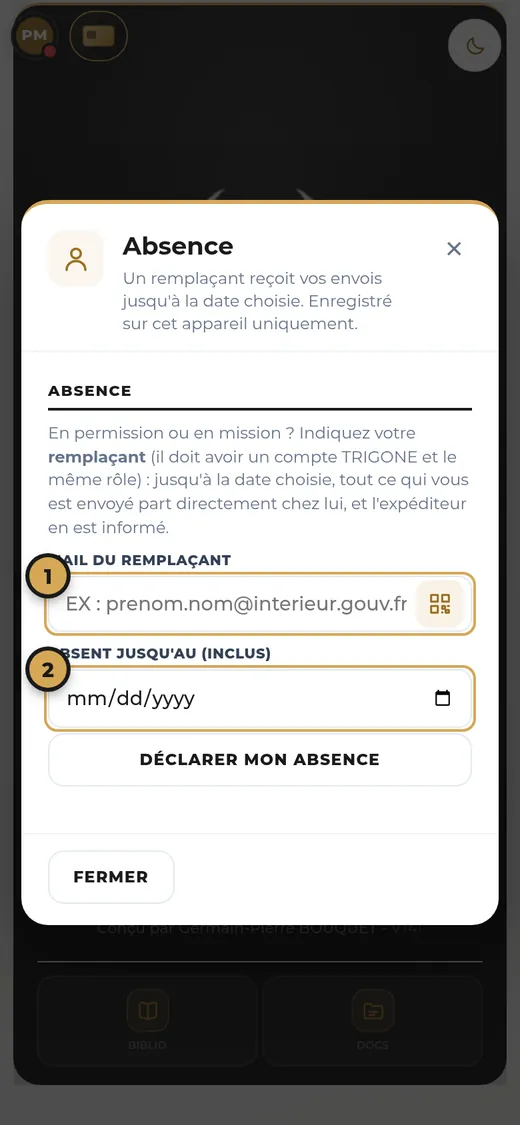
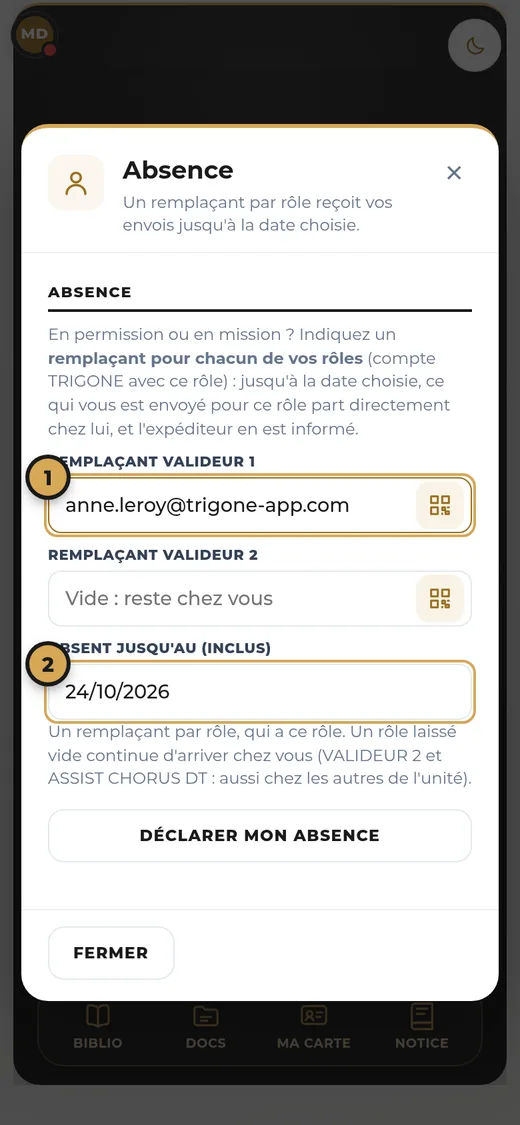
V183 : absence avec un remplaçant par rôle (VALIDEUR 1, VALIDEUR 2, ASSIST CHORUS DT) (#245)
Claude-Session: https://claude.ai/code/session_01NStkfCttCkWn8HaycQvLWX

diff --git a/jumelage.js b/jumelage.js
@@ -1190,7 +1190,7 @@
     // Dès l'ouverture (démarrage ou retour dans l'appli), TRIGONE vérifie s'il existe une publication plus récente
     // et se met à jour tout seul. Jamais au mauvais moment : uniquement sur l'accueil, sans fenêtre ouverte
     // (chaque appli le dit via JUMELAGE_PEUT_RECHARGER) ; sinon au prochain retour sur l'accueil.
-    var BUILD = 183, MAJ_DISPO = false, CLE_RECHARGE = 'trigone_recharge_build';
+    var BUILD = 184, MAJ_DISPO = false, CLE_RECHARGE = 'trigone_recharge_build';
     function peutRecharger() {
         if (document.visibilityState === 'hidden') return false;
         if (document.body && document.body.classList.contains('demo-active')) return false;
@@ -1848,7 +1848,7 @@
         reglages.setAttribute('role', 'dialog');
         reglages.innerHTML = premiere ? htmlProfilEtapes() : '<div class="JUM-R-CARTE">' +
             '<div class="JUM-R-TETE"><span class="JUM-R-ICONE">' + (window.JUMELAGE_ICONE ? window.JUMELAGE_ICONE('personne') : ROUE_SVG) + '</span><div><h2>' + (premiere ? 'Compléter mon profil' : vue === 'roles' ? 'Mes rôles' : vue === 'absence' ? 'Absence' : 'Mon profil') + '</h2>' +
-                '<p>' + (premiere ? 'Une seule fois : ces informations pré-rempliront Mise en route et Compte-rendu de mission.' : vue === 'roles' ? 'VALIDEUR 1, VALIDEUR 2, ASSIST CHORUS DT : chacun avec son code.' : vue === 'absence' ? 'Un remplaçant reçoit vos envois jusqu\'à la date choisie.' : 'Commun à Mise en route et Compte-rendu de mission.') + ' Enregistré sur cet appareil uniquement.</p></div>' +
+                '<p>' + (premiere ? 'Une seule fois : ces informations pré-rempliront Mise en route et Compte-rendu de mission.' : vue === 'roles' ? 'VALIDEUR 1, VALIDEUR 2, ASSIST CHORUS DT : chacun avec son code.' : vue === 'absence' ? 'Un remplaçant par rôle reçoit vos envois jusqu\'à la date choisie.' : 'Commun à Mise en route et Compte-rendu de mission.') + (vue === 'absence' ? '' : ' Enregistré sur cet appareil uniquement.') + '</p></div>' +
                 (premiere ? '' : '<button type="button" class="JUM-R-X" aria-label="Fermer" onclick="JUMELAGE_FERMER_REGLAGES()">✕</button>') + '</div>' +
             '<div class="JUM-R-CORPS">' +
                 // Déjà configuré sur un autre appareil : un code de liaison suffit (rien à ressaisir).
@@ -1884,10 +1884,12 @@
                 // Absence (valideur, assistant Chorus DT déjà actifs, compte TRIGONE actif) : remplaçant jusqu'à une date.
                 '</div><div data-vue="absence">' +
                 (!premiere && monCompte() && ['valideur1', 'valideur2', 'chorus'].some(roleActif) ? '<div class="JUM-R-TITRE" id="JUM-R-SECTION-ABSENCE">Absence</div>' +
-                    '<p class="JUM-R-AIDE">En permission ou en mission ? Indiquez votre <b>remplaçant</b> (il doit avoir un compte TRIGONE et le même rôle) : jusqu\'à la date choisie, tout ce qui vous est envoyé part directement chez lui, et l\'expéditeur en est informé.</p>' +
+                    '<p class="JUM-R-AIDE">En permission ou en mission ? Indiquez un <b>remplaçant pour chacun de vos rôles</b> (compte TRIGONE avec ce rôle) : jusqu\'à la date choisie, ce qui vous est envoyé pour ce rôle part directement chez lui, et l\'expéditeur en est informé.</p>' +
                     '<div id="JUM-R-ABS-ETAT" class="JUM-R-AIDE"></div>' +
-                    '<div class="JUM-R-GRILLE">' + champ('ABSMAIL', 'Mail du remplaçant', '', 'type="email" autocomplete="off" placeholder="EX : prenom.nom@interieur.gouv.fr"') +
-                        champ('ABSFIN', 'Absent jusqu\'au (inclus)', '', 'type="date"') + '</div>' +
+                    '<div class="JUM-R-GRILLE" id="JUM-R-ABS-CHAMPS">' + [['valideur1', 'VALIDEUR 1'], ['valideur2', 'VALIDEUR 2'], ['chorus', 'ASSIST CHORUS DT']].filter(function(x) { return roleActif(x[0]); }).map(function(x) {
+                            return champ('ABS-' + x[0], 'Remplaçant ' + x[1], '', 'type="email" data-scan-carte data-role-abs="' + x[0] + '" autocomplete="off" placeholder="Vide : reste chez vous"');
+                        }).join('') + champ('ABSFIN', 'Absent jusqu\'au (inclus)', '', 'type="date"') + '</div>' +
+                    '<p class="JUM-R-AIDE" style="margin-top:0;">Un remplaçant par rôle, qui a ce rôle. Un rôle laissé vide continue d\'arriver chez vous (VALIDEUR 2 et ASSIST CHORUS DT : aussi chez les autres de l\'unité).</p>' +
                     '<button type="button" class="JUM-R-SECOND" id="JUM-R-ABS-OK" style="width:100%; margin:4px 0 0;">Déclarer mon absence</button>' +
                     '<p class="JUM-R-ERREUR" id="JUM-R-ABS-ERR" style="min-height:0;"></p>' : '<p class="JUM-R-AIDE" data-vue="absence">L\'absence concerne les valideurs et l\'assistant Chorus DT : cochez d\'abord votre rôle dans « Mes rôles ».</p>') + '</div>' +
                 // Android, première ouverture : réglage batterie, sans lequel les notifications arrivent en retard appli fermée.
@@ -2099,32 +2101,34 @@
         f.querySelector('.JUM-BIENV-BTN').addEventListener('click', function() { f.remove(); });
     }
     // Absence : état actuel (lu sur le serveur), déclaration et fin.
+    var NOMS_ROLES_ABS = { valideur1: 'VALIDEUR 1', valideur2: 'VALIDEUR 2', chorus: 'ASSIST CHORUS DT' };
     function initAbsence() {
         var etat = document.getElementById('JUM-R-ABS-ETAT'), err = document.getElementById('JUM-R-ABS-ERR'), btn = document.getElementById('JUM-R-ABS-OK');
-        var champMail = document.getElementById('JUM-R-ABSMAIL'), champFin = document.getElementById('JUM-R-ABSFIN');
+        var champs = Array.prototype.slice.call(document.querySelectorAll('[data-role-abs]')), champFin = document.getElementById('JUM-R-ABSFIN'), bloc = document.getElementById('JUM-R-ABS-CHAMPS');
         var jour = function(ms) { return new Date(ms).toLocaleDateString('fr-FR'); }, actuel = null;
         function afficher(rp) {
             actuel = rp;
-            etat.innerHTML = rp ? '🟠 <b>Absent jusqu\'au ' + jour(rp.jusqu) + '</b> : remplacé par <b>' + esc(rp.mail) + '</b>.' : '';
+            var parRole = rp ? rp.roles || Object.fromEntries(Object.keys(NOMS_ROLES_ABS).filter(roleActif).map(function(r) { return [r, rp.mail]; })) : {};
+            etat.innerHTML = rp ? '<b>Absent jusqu\'au ' + jour(rp.jusqu) + '</b> :<br>' + Object.keys(NOMS_ROLES_ABS).filter(function(r) { return parRole[r] || roleActif(r); }).map(function(r) {
+                return NOMS_ROLES_ABS[r] + ' → ' + (parRole[r] ? '<b>' + esc(parRole[r]) + '</b>' : 'reste chez vous');
+            }).join('<br>') : '';
             btn.textContent = rp ? 'Fin de l\'absence (je suis de retour)' : 'Déclarer mon absence';
-            champMail.parentNode.parentNode.style.display = rp ? 'none' : '';
+            bloc.style.display = rp ? 'none' : '';
         }
         var d = new Date(); d.setDate(d.getDate() + 1); champFin.min = d.toISOString().slice(0, 10);
         appelApi('cles?mail=' + encodeURIComponent(monCompte().mail)).then(function(r) { afficher(r.remplacant || null); }).catch(function() {});
         btn.addEventListener('click', function() {
             err.textContent = '';
-            var corps = { mail: '' };
+            var corps = { roles: {} };
             if (!actuel) {
-                var mail = champMail.value.trim().toLowerCase(), fin = champFin.value;
-                if (!mail || !fin) { err.textContent = 'Indiquez le mail du remplaçant et la date de fin.'; return; }
-                corps = { mail: mail, jusqu: new Date(fin + 'T23:59:59').getTime() };
+                champs.forEach(function(c) { var v = c.value.trim().toLowerCase(); if (v) corps.roles[c.getAttribute('data-role-abs')] = v; });
+                if (!Object.keys(corps.roles).length || !champFin.value) { err.textContent = 'Indiquez au moins un remplaçant et la date de fin.'; return; }
+                corps.jusqu = new Date(champFin.value + 'T23:59:59').getTime();
             }
             btn.disabled = true;
             appelApi('remplacant', { methode: 'POST', corps: corps }).then(function(r) {
                 afficher(r.remplacant);
-                if (r.remplacant && r.rolesManquants && r.rolesManquants.length) err.textContent = 'Attention : ' + r.remplacant.mail + ' n\'a pas le rôle ' +
-                    r.rolesManquants.map(function(x) { return { valideur1: 'VALIDEUR 1', valideur2: 'VALIDEUR 2', chorus: 'ASSIST CHORUS DT' }[x]; }).join(', ') + ' : les envois de ce type lui seront refusés tant qu\'il ne l\'a pas.';
-                bandeau(r.remplacant ? 'Absence enregistrée : vos envois partent chez ' + r.remplacant.mail + '.' : 'Fin de l\'absence : vos envois vous reviennent.');
+                bandeau(r.remplacant ? 'Absence enregistrée jusqu\'au ' + jour(r.remplacant.jusqu) + '.' : 'Fin de l\'absence : vos envois vous reviennent.');
             }).catch(function(e) { err.textContent = e.message; }).then(function() { btn.disabled = false; });
         });
     }
@@ -3053,7 +3057,10 @@
     window.JUMELAGE_COMPTE_MAIL = function() { var c = monCompte(); return c ? c.mail : ''; };
     // Absence d'un destinataire (avant l'envoi) : { mail du remplaçant, jusqu } ou null. Mémorisée 5 minutes.
     var absences = {};
-    window.JUMELAGE_ABSENCE = function(mail) {
+    window.JUMELAGE_ABSENCE = function(mail, type) {
+        return absenceBrute(mail).then(function(rp) { var c = remplacantPour(rp, type || 'DEMANDE'); return c ? { mail: c, jusqu: rp.jusqu } : null; });
+    };
+    function absenceBrute(mail) {
         mail = String(mail || '').trim().toLowerCase();
         if (!monCompte() || !navigator.onLine || !/^[^@\s]+@[^@\s]+\.[^@\s]+$/.test(mail)) return Promise.resolve(null);
         var a = absences[mail];
@@ -3062,7 +3069,14 @@
             var rp = r.compte && r.remplacant ? r.remplacant : null;
             absences[mail] = { le: Date.now(), r: rp }; return rp;
         }).catch(function() { return null; });
-    };
+    }
+    // Remplaçant à qui va un envoi selon son type (un remplaçant par rôle) ; null : l'envoi reste au destinataire.
+    function remplacantPour(rp, type) {
+        if (!rp || !rp.mail) return null;
+        if (!rp.roles) return rp.mail;
+        var role = { DEMANDE: 'valideur1', RENVOI: 'valideur1', VALIDATION_1: 'valideur2', CHORUS: 'chorus', CR: 'chorus' }[type];
+        return role ? rp.roles[role] || null : rp.mail;
+    }
     // Envoi direct : chiffré pour tous les appareils du destinataire. Rejette avec e.pasDeCompte si le destinataire
     // n'a pas encore de compte TRIGONE (l'envoi est alors bloqué : il doit d'abord activer son compte).
     // opts.differable : sans réseau, l'envoi est mis en attente sur l'appareil et part tout seul au retour du réseau
@@ -3084,9 +3098,10 @@
         return appelApi('cles?mail=' + encodeURIComponent(dest)).then(function(r) {
             // Destinataire absent (valideur, assistant Chorus DT) : l'envoi part chez son remplaçant (un refus, lui, va
             // toujours au demandeur).
-            if (r.compte && r.remplacant && r.remplacant.mail && type !== 'REFUS') {
+            var cible = remplacantPour(r.remplacant, type);
+            if (r.compte && cible && type !== 'REFUS') {
                 absent = { mail: dest, jusqu: r.remplacant.jusqu };
-                dest = r.remplacant.mail;
+                dest = cible;
                 return appelApi('cles?mail=' + encodeURIComponent(dest));
             }
             return r;

diff --git a/tests/test-boite.js b/tests/test-boite.js
@@ -428,11 +428,13 @@ module.exports = async function() {
     const api = (p, chemin, corps) => p.evaluate(async ([chemin, corps]) => { const x = JSON.parse(localStorage.getItem('trigone_compte'));
         const r = await fetch((location.pathname.includes('/cr/') ? '../' : '') + 'api/' + chemin, { method: corps ? 'POST' : 'GET', headers: { 'Content-Type': 'application/json', Authorization: 'TRIGONE ' + encodeURIComponent(x.mail) + ' ' + x.appareil + ' ' + x.jeton }, body: corps ? JSON.stringify(corps) : undefined });
         return r.json(); }, [chemin, corps]);
-    const abs = await api(v2, 'remplacant', { mail: MAILS.V1, jusqu: Date.now() + 2 * 864e5 });
-    verifier(abs.ok && abs.remplacant.mail === MAILS.V1 && abs.rolesManquants.length === 0, 'absence : remplaçant enregistré (compte et rôle vérifiés)');
+    const sansRole = await api(v2, 'remplacant', { roles: { valideur2: MAILS.M }, jusqu: Date.now() + 2 * 864e5 });
+    verifier(sansRole.ok === false && /n'a pas le rôle VALIDEUR 2/.test(sansRole.erreur || sansRole.message || JSON.stringify(sansRole)), 'absence : un remplaçant qui n\'a pas le rôle est refusé pour ce rôle');
+    const abs = await api(v2, 'remplacant', { roles: { valideur2: MAILS.V1 }, jusqu: Date.now() + 2 * 864e5 });
+    verifier(abs.ok && abs.remplacant.mail === MAILS.V1 && abs.remplacant.roles.valideur2 === MAILS.V1, 'absence : remplaçant VALIDEUR 2 enregistré (compte et rôle vérifiés)');
     verifier((await api(v2, 'remplacant', { mail: 'inconnu@interieur.gouv.fr', jusqu: Date.now() + 864e5 })).ok === false, 'absence : un remplaçant sans compte TRIGONE est refusé');
     await v2.evaluate(() => JUMELAGE_REGLAGES({ vue: 'absence' })); await attendre(1500);
-    verifier((await v2.textContent('#JUM-R-ABS-ETAT')).includes('remplacé par'), 'Réglages › Absence : « Absent jusqu\'au …, remplacé par … » affiché');
+    verifier((await v2.textContent('#JUM-R-ABS-ETAT')).includes('VALIDEUR 2 → ' + MAILS.V1), 'Réglages › Absence : « Absent jusqu\'au … » avec le remplaçant de chaque rôle');
     verifier(await v2.evaluate(() => !document.getElementById('JUM-R-VAL1').offsetParent && !document.getElementById('JUM-R-NOM').offsetParent && document.querySelector('.JUM-R-TETE h2').textContent === 'Absence'),
         'Paramètres › Absence : une page à part, sans les rôles ni le profil');
     await v2.evaluate(() => JUMELAGE_FERMER_REGLAGES());
@@ -440,11 +442,13 @@ module.exports = async function() {
     await m.goto(URL); await attendre(2500);
     // L'envoi est dans le dossier « Prêtes à envoyer » : une demande prête le temps de la vérification.
     const panierAvant = await m.evaluate(() => { const p = GET_PANIER(); SAVE_PANIER(p.concat([VIDE_DEMANDE()])); MER_DOSSIER.PANIER = 'prets'; SHOW_PAGE('PANIER'); return p; });
-    await m.evaluate(v => MER_AFFICHER_ABSENCE('MER-ABS-DEST', v), MAILS.V2); await attendre(1200);
+    await m.evaluate(v => MER_AFFICHER_ABSENCE('MER-ABS-DEST', v, 'VALIDATION_1'), MAILS.V2); await attendre(1200);
     verifier((await m.textContent('#MER-ABS-DEST')).includes('partira chez son remplaçant'), 'absence : l\'expéditeur est prévenu avant l\'envoi (« absent jusqu\'au … : votre envoi partira chez son remplaçant »)');
     await m.evaluate(p => SAVE_PANIER(p), panierAvant);
     const envoiAbs = await m.evaluate(d => JUMELAGE_ENVOYER_DIRECT(d, 'VALIDATION_1', 'test.json', JSON.stringify({ demandes: [] })), MAILS.V2);
     verifier(envoiAbs.remplacant === MAILS.V1 && envoiAbs.absent === MAILS.V2, 'absence : l\'envoi destiné au VALIDEUR 2 part chez son remplaçant');
+    const demAbs = await m.evaluate(d => JUMELAGE_ENVOYER_DIRECT(d, 'DEMANDE', 'test.json', JSON.stringify({ demandes: [] })).catch(e => ({ err: e.message })), MAILS.V2);
+    verifier(!demAbs.remplacant, 'absence : un envoi pour un rôle sans remplaçant reste au destinataire');
     const refusAbs = await m.evaluate(d => JUMELAGE_ENVOYER_DIRECT(d, 'REFUS', 'test.json', JSON.stringify({ demandes: [] })), MAILS.V2);
     verifier(!refusAbs.remplacant, 'absence : un refus (retour au demandeur) n\'est jamais redirigé');
     await api(v2, 'remplacant', { mail: '' });

diff --git a/worker.js b/worker.js
@@ -201,7 +201,7 @@ async function membresGroupe(env, g) {
         l.push({ mail: x.mail, compte: c });
     }
     // Absents (remplaçant déclaré) : laissés de côté tant qu'il reste quelqu'un.
-    const presents = l.filter(x => !(x.compte.remplacant && x.compte.remplacant.jusqu > Date.now()));
+    const presents = l.filter(x => { const rp = x.compte.remplacant; return !(rp && rp.jusqu > Date.now() && (!rp.roles || rp.roles[g.role])); });
     return presents.length ? presents : l;
 }
 async function groupesDe(env, moi) {
@@ -1646,20 +1646,30 @@ async function api(requete, env, url, ctx) {
         }
     }
 
-    // Absence : remplaçant (compte TRIGONE existant) jusqu'à une date (90 jours au plus) ; mail vide = fin de l'absence.
+    // Absence : un remplaçant par rôle (compte TRIGONE existant qui a ce rôle), jusqu'à une date (90 jours au plus).
+    // corps.roles = { valideur1, valideur2, chorus } (un rôle laissé vide reste chez moi) ; corps.mail seul = même
+    // remplaçant pour tous mes rôles (anciennes versions) ; rien = fin de l'absence.
     if (chemin === 'remplacant' && methode === 'POST') {
         const corps = await requete.json().catch(() => ({}));
-        const rmail = await cleCompte(kv, corps.mail);
-        if (!rmail) { delete moi.compte.remplacant; await kv.put('compte:' + moi.mail, JSON.stringify(moi.compte)); return json({ ok: true, remplacant: null }); }
-        if (!mailValide(rmail) || rmail === moi.mail) return erreur(400, 'Adresse du remplaçant invalide.');
+        const NOMS = { valideur1: 'VALIDEUR 1', valideur2: 'VALIDEUR 2', chorus: 'ASSIST CHORUS DT' };
+        const mesRoles = Object.keys(NOMS).filter(r => (moi.compte.roles || {})[r]);
+        const demande = corps.roles && typeof corps.roles === 'object' ? corps.roles : corps.mail ? Object.fromEntries(mesRoles.map(r => [r, corps.mail])) : {};
+        const roles = {};
+        for (const r of mesRoles) {
+            if (!String(demande[r] || '').trim()) continue;
+            const m = await cleCompte(kv, demande[r]);
+            if (!m || !mailValide(m) || m === moi.mail) return erreur(400, 'Adresse du remplaçant ' + NOMS[r] + ' invalide.');
+            const cr = await kv.get('compte:' + m, 'json');
+            if (!cr || !cr.appareils.length) return erreur(404, m + ' n\'a pas encore de compte TRIGONE : demandez-lui de l\'activer.');
+            if (!(cr.roles || {})[r] && !corps.mail) return erreur(400, m + ' n\'a pas le rôle ' + NOMS[r] + ' : choisissez quelqu\'un qui l\'a, ou laissez ce rôle vide.');
+            roles[r] = m;
+        }
+        if (!Object.keys(roles).length) { delete moi.compte.remplacant; await kv.put('compte:' + moi.mail, JSON.stringify(moi.compte)); return json({ ok: true, remplacant: null }); }
         const jusqu = +corps.jusqu || 0;
         if (jusqu <= Date.now() || jusqu > Date.now() + 90 * JOUR * 1000) return erreur(400, 'Date de fin d\'absence invalide (dans les 90 jours).');
-        const cr = await kv.get('compte:' + rmail, 'json');
-        if (!cr || !cr.appareils.length) return erreur(404, rmail + ' n\'a pas encore de compte TRIGONE : demandez-lui de l\'activer.');
-        const manque = Object.keys(moi.compte.roles || {}).filter(r => !(cr.roles || {})[r]);
-        moi.compte.remplacant = { mail: rmail, jusqu };
+        moi.compte.remplacant = { mail: roles[mesRoles.find(r => roles[r])], jusqu, roles };
         await kv.put('compte:' + moi.mail, JSON.stringify(moi.compte));
-        return json({ ok: true, remplacant: moi.compte.remplacant, rolesManquants: manque });
+        return json({ ok: true, remplacant: moi.compte.remplacant, rolesManquants: [] });
     }
     // Demandes abandonnées par leur demandeur (retirées de Documents après un refus) : plus de relance.
     if (chemin === 'suivi/abandon' && methode === 'POST') {

diff --git a/app.js b/app.js
@@ -1,7 +1,7 @@
 // ===================== TRIGONE MISE EN ROUTE — logique =====================
 var MER_VERSION = 1;          // version du format des fichiers .json échangés
 // Version du code de l'appli : à augmenter à chaque publication, avec « appCodeVersion » dans updates-manifest.json.
-var APP_CODE_VERSION = 230;
+var APP_CODE_VERSION = 231;
 // Numéro de version affiché (« V1 », « V2 »…) : repart de 1 au lancement de TRIGONE jumelé et suit ensuite chaque
 // publication. APP_CODE_VERSION reste le compteur interne des mises à jour (ne jamais le faire redescendre).
 var APP_VERSION_AFFICHEE = APP_CODE_VERSION - 48;
@@ -1483,10 +1483,10 @@ function FORMAT_DATE_COURT(v) {
 }
 
 // Destinataire absent (valideur, assistant Chorus DT) : prévenir avant l'envoi, dans l'élément « id ».
-function MER_AFFICHER_ABSENCE(id, mail) {
+function MER_AFFICHER_ABSENCE(id, mail, type) {
     if (!window.JUMELAGE_ABSENCE) return;
     var cible = document.getElementById(id); if (cible) cible.setAttribute('data-mail', String(mail || ''));
-    JUMELAGE_ABSENCE(mail).then(function(rp) {
+    JUMELAGE_ABSENCE(mail, type).then(function(rp) {
         var el = document.getElementById(id); if (!el) return;
         // Une réponse pour une adresse qui n'est plus celle affichée (saisie changée entre-temps) est ignorée.
         if (el.getAttribute('data-mail') !== String(mail || '')) return;
@@ -3215,7 +3215,7 @@ function AFFICHER_TRANSMISSION() {
             : '<div class="MER-HINT" style="width:100%; margin-top:8px;">Adresse du demandeur inconnue : prévenez-le directement du refus et de son motif.</div>' +
               '<button type="button" class="BTN BTN-GHOST BTN-SMALL" style="width:100%; margin:6px 0 0;" onclick="MER_ENVOIS[' + i + '].fait = true; AFFICHER_TRANSMISSION()">C\'est fait</button>') + '</div>';
     }).join('');
-    MER_ENVOIS.forEach(function(env, i) { if (env.mail && env.type !== 'REFUS' && !env.fait) setTimeout(function() { MER_AFFICHER_ABSENCE('MER-ABS-ENV-' + i, env.mail); }, 0); });
+    MER_ENVOIS.forEach(function(env, i) { if (env.mail && env.type !== 'REFUS' && !env.fait) setTimeout(function() { MER_AFFICHER_ABSENCE('MER-ABS-ENV-' + i, env.mail, env.type); }, 0); });
     var tousFaits = MER_ENVOIS.every(function(env) { return env.fait; });
     AFFICHER_MODALE('Transmettre',
         '<p style="font-size:0.86em; line-height:1.5;">Pour chaque envoi : <b>« Envoyer »</b>. Il arrive, chiffré, directement dans le TRIGONE du destinataire.</p>' + lignes,

diff --git a/notice/notice.js b/notice/notice.js
@@ -98,7 +98,7 @@
         savoir('L\'administrateur accorde les réinitialisations et suppressions de comptes de son unité, et supprime le compte de quelqu\'un qui quitte l\'institution (chapitre 14).'), 'profil'));
     ajouter(page('Code d\'accès et empreinte', duo('85-empreinte-ouverture', et(['Avec un code d\'accès, TRIGONE le demande à chaque ouverture.', 'Sur téléphone, ajoutez l\'<b>empreinte</b> (ou le visage) : Mon profil › Code d\'accès › <b>Activer l\'empreinte</b>, puis posez votre doigt.', 'À l\'ouverture : posez votre doigt sur le capteur, <b>« Bienvenue ✓ »</b> s\'affiche et TRIGONE s\'ouvre.', '<b>« Utiliser mon code »</b> reste possible à tout moment.'])) +
         savoir('Votre empreinte <b>reste dans le téléphone</b> : TRIGONE ne la voit jamais, il reçoit seulement « c\'est bien la personne ».'), 'profil'));
-    ajouter(page('Absence et remplaçant', duo('84-absence', et(['Réservé aux valideurs et à l\'assistant Chorus DT : Paramètres › Compte › <b>Absence</b>.', r(1) + ' Saisissez le mail du <b>remplaçant</b> (il doit avoir un compte TRIGONE et le même rôle).', r(2) + ' Choisissez la <b>date de retour</b>.', 'Touchez <b>Déclarer mon absence</b> : tout ce qui vous est envoyé part directement chez le remplaçant, et l\'expéditeur en est informé.', 'Au retour : <b>Fin de l\'absence</b>.'])), 'profil'));
+    ajouter(page('Absence et remplaçant', duo('84-absence', et(['Réservé aux valideurs et à l\'assistant Chorus DT : Paramètres › Compte › <b>Absence</b>.', r(1) + ' Un champ par rôle que vous avez : saisissez le <b>remplaçant VALIDEUR 1</b>, <b>VALIDEUR 2</b>, <b>ASSIST CHORUS DT</b> (compte TRIGONE qui a ce rôle). Laissé vide : le rôle reste chez vous.', r(2) + ' Choisissez la <b>date de retour</b>.', 'Touchez <b>Déclarer mon absence</b> : ce qui vous est envoyé pour chaque rôle part chez son remplaçant, et l\'expéditeur en est informé.', 'Au retour : <b>Fin de l\'absence</b>.'])), 'profil'));
 
     // ---------- 5. Paramètres ----------
     ajouter(chapitre(5, 'Les Paramètres', 'Toutes les options de TRIGONE sont rangées dans une seule page, par rubriques : Compte, Notifications, réglages de l\'appli, Données et Aide.',

diff --git a/cr/index.html b/cr/index.html
@@ -11,7 +11,7 @@
 <link rel="manifest" href="../manifest.json">
 <meta name="apple-mobile-web-app-title" content="TRIGONE">
 <meta name="application-name" content="TRIGONE">
-<script src="../jumelage.js?v=183"></script>
+<script src="../jumelage.js?v=184"></script>
 <link rel="icon" type="image/png" sizes="192x192" href="icon-192.png?v=3">
 <link rel="apple-touch-icon" href="apple-touch-icon.png?v=3">
 <link href="../fonts/montserrat.css" rel="stylesheet"><!-- police hébergée avec TRIGONE : identique hors ligne -->
@@ -11719,7 +11719,7 @@ function SET_UPDATE_SEEN_VERSION(cle, version) {
 // Numéro de version du code de CETTE appli. À augmenter à chaque publication, en même temps que
 // « appCodeVersion » dans updates-manifest.json : c'est ce qui permet à l'appli de savoir si elle est
 // déjà à jour (elle affiche alors les « Nouveautés ») ou en retard (elle demande la mise à jour).
-var APP_CODE_VERSION = 280;
+var APP_CODE_VERSION = 281;
 // Jumelage : numéro affiché « V1, V2… » ; APP_CODE_VERSION reste le compteur interne des mises à jour
 // (à augmenter avec appCodeVersion de cr/updates-manifest.json, sans jamais le faire redescendre).
 var APP_VERSION_AFFICHEE = APP_CODE_VERSION - 98;

diff --git a/index.html b/index.html
@@ -5,7 +5,7 @@
 <meta name="viewport" content="width=device-width, initial-scale=1, viewport-fit=cover">
 <title>TRIGONE — Mise en route</title>
 <link rel="manifest" href="manifest.json">
-<script src="jumelage.js?v=183"></script>
+<script src="jumelage.js?v=184"></script>
 <meta name="theme-color" content="#ecebe7">
 <link href="fonts/montserrat.css" rel="stylesheet"><!-- police hébergée avec TRIGONE : identique hors ligne -->
 <link rel="apple-touch-icon" href="apple-touch-icon.png?v=3">
@@ -1140,6 +1140,6 @@ body.dark-mode .MER-BASCULE-ROLE { background: rgba(255,255,255,0.08); } body.da
     </div>
   </div>
 </div>
-<script src="app.js?v=183"></script>
+<script src="app.js?v=184"></script>
 </body>
 </html>

diff --git a/cr/sw.js b/cr/sw.js
@@ -1,6 +1,6 @@
 // Copie jumelée dans TRIGONE Mise en route (dossier cr/) : caches préfixés « trigone-cr- » ; ceux de
 // Mise en route (« trigone-mise-en-route- ») ne sont jamais effacés d'ici.
-const CACHE_NAME = 'trigone-cr-v572';
+const CACHE_NAME = 'trigone-cr-v573';
 const ASSETS = [
   './',
   './manifest.json',

diff --git a/sw.js b/sw.js
@@ -1,4 +1,4 @@
-const CACHE_NAME = 'trigone-mise-en-route-v237';
+const CACHE_NAME = 'trigone-mise-en-route-v238';
 const ASSETS = [
   './',
   './manifest.json',
